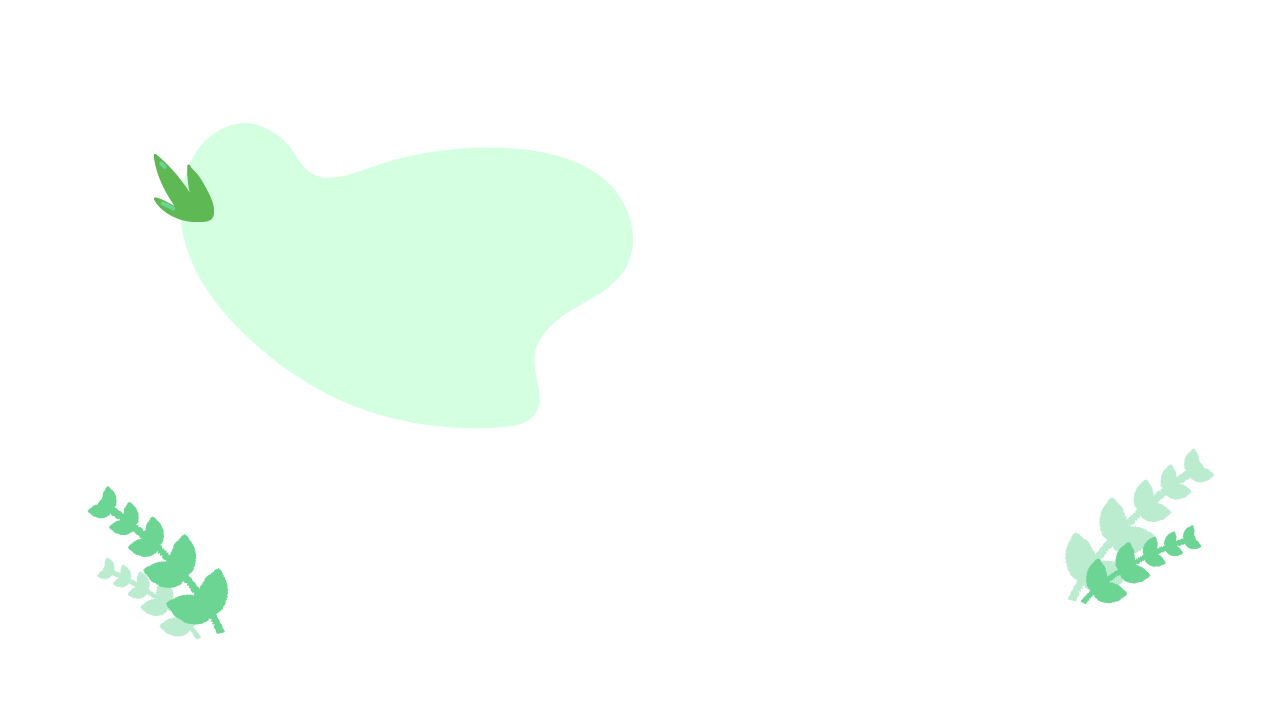
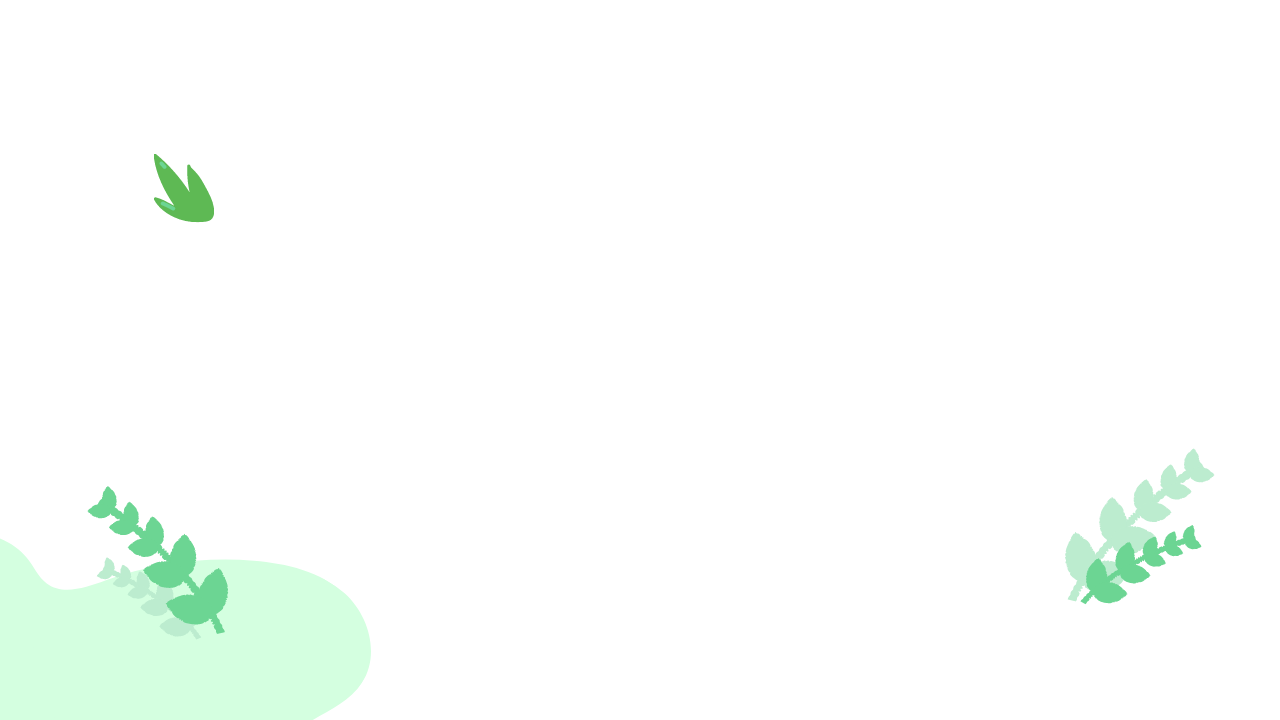
css update

Changed region(s): [[0.125, 0.1528, 0.5, 0.6111], [0.0, 0.7333, 0.3125, 1.0]]

diff --git a/src/pages/global-style.scss b/src/pages/global-style.scss
@@ -494,7 +494,7 @@ button.navbar-burger {
   background-position: center;
   background-size: cover;
   margin: -3rem auto 1.5rem;
-  z-index: 1;
+  z-index: -1;
 }
 
 .block-main .text-wrapper {
